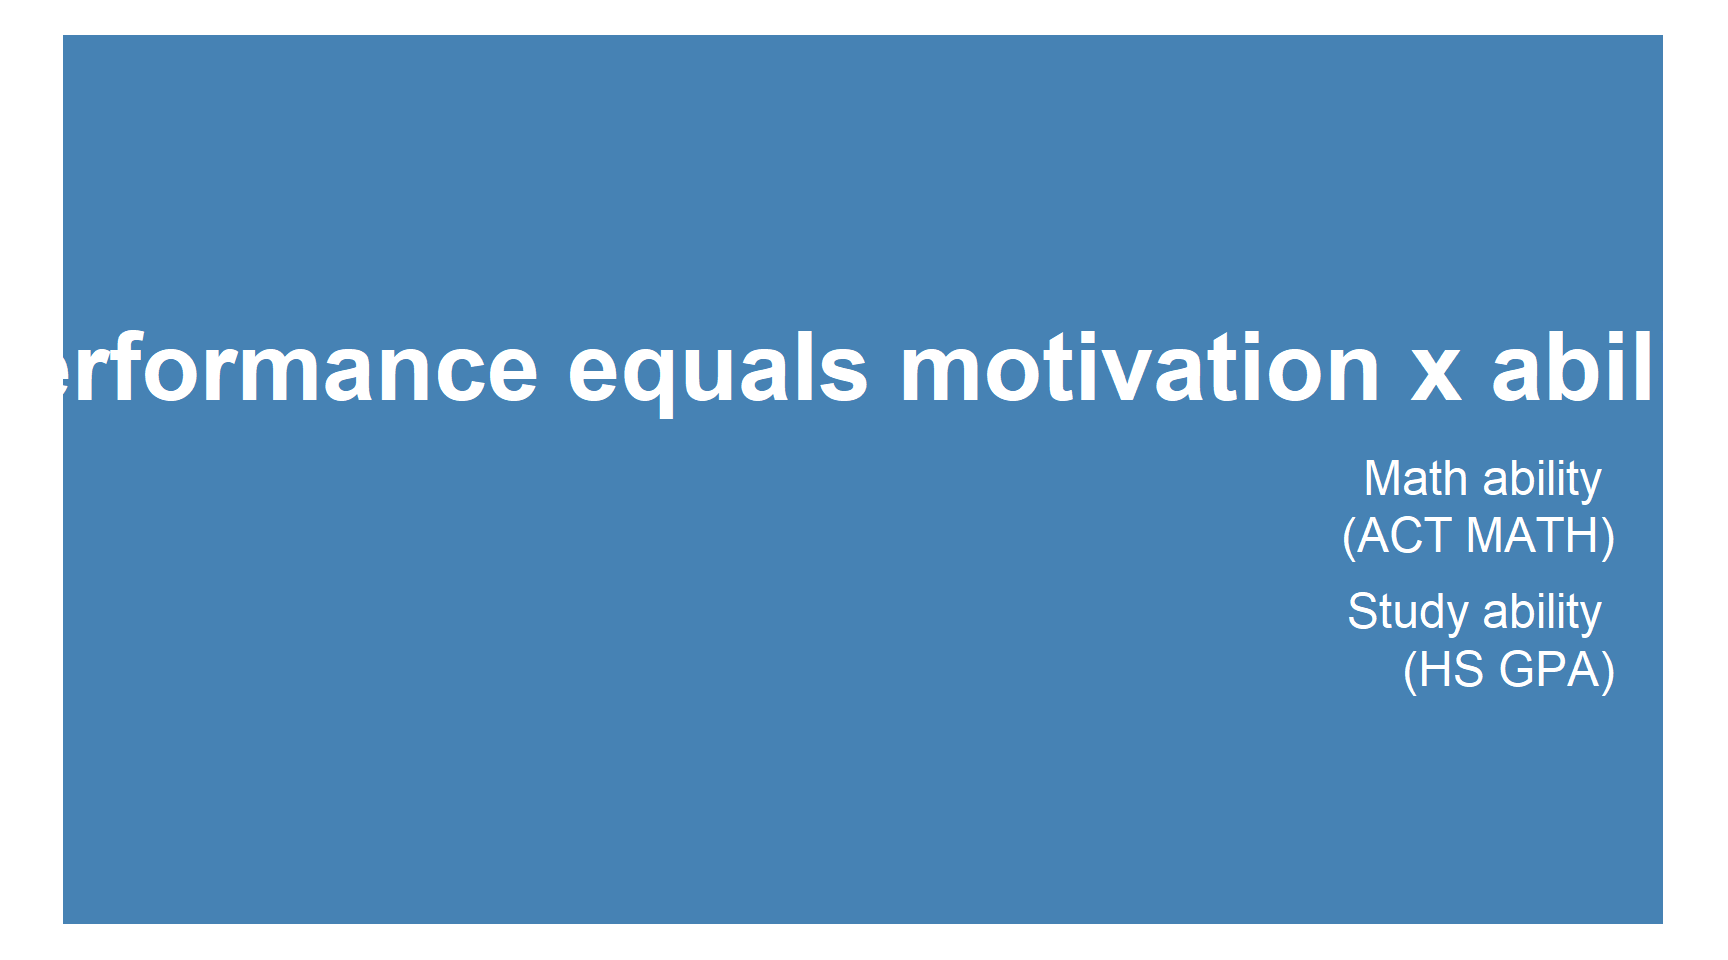
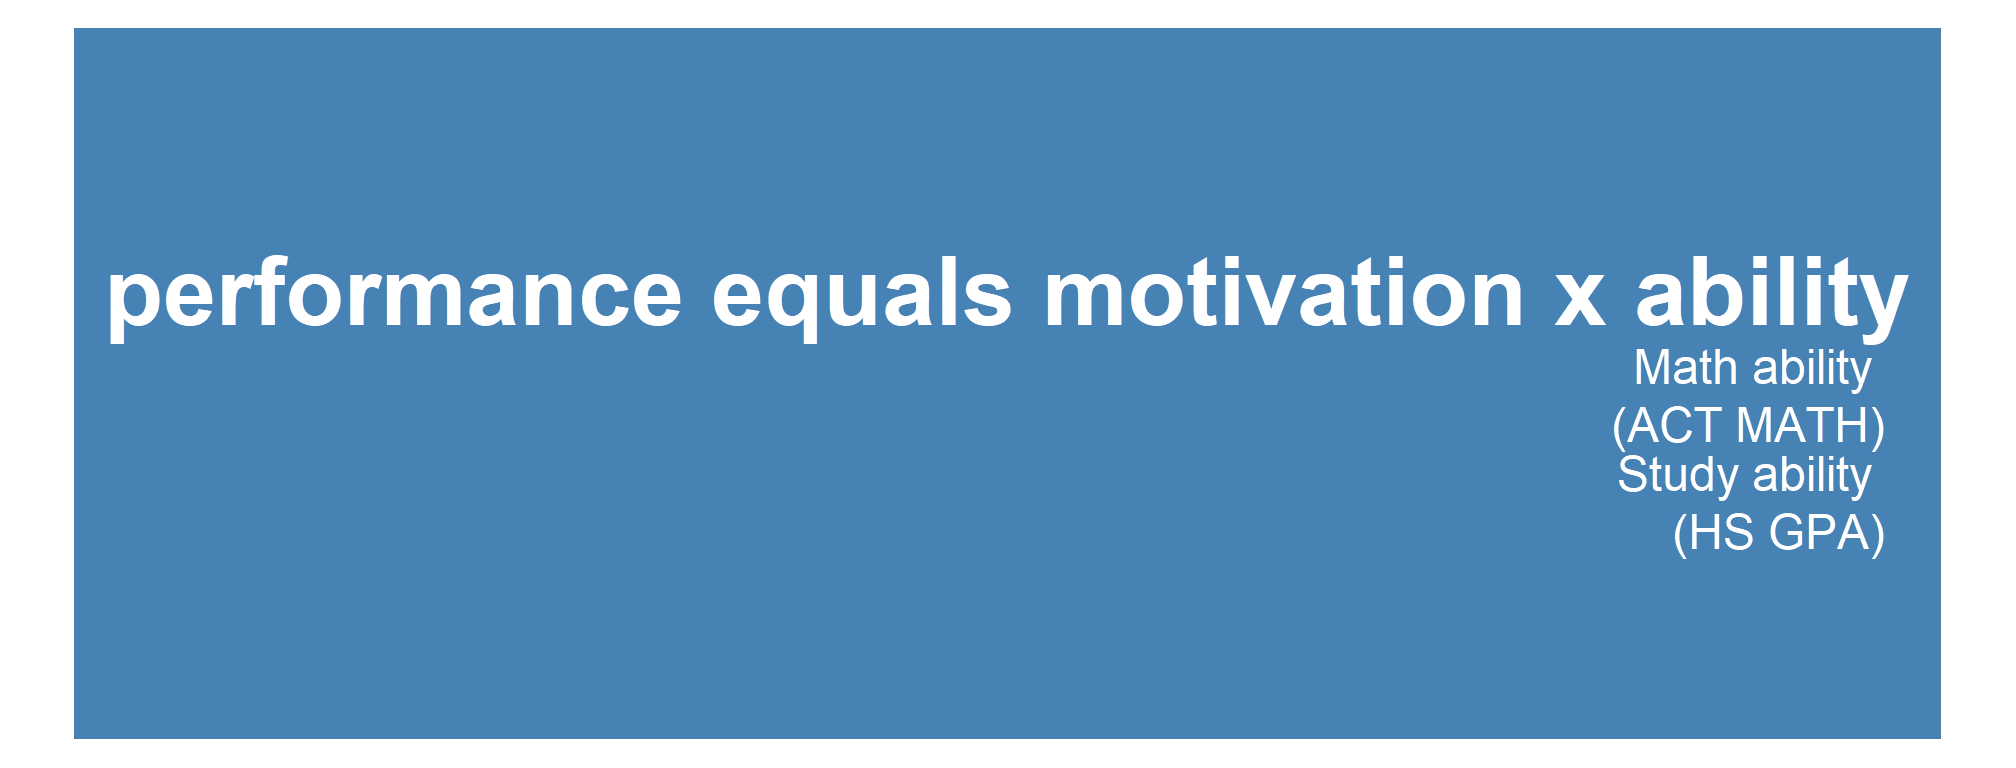
Final HTML Version; now working on docx-friendly adjustments.

Changed region(s): [[0.0312, 0.3125, 0.9688, 0.7188]]

diff --git a/Reports and Analyses/Evaluate Decision Trees/Deeper Dive into vH4 model (quarto).html b/Reports and Analyses/Evaluate Decision Trees/Deeper Dive into vH4 model (quarto).html
@@ -228,7 +228,7 @@ Figure&nbsp;4: The heatmap shows grade expectations increase with ACT Math and h
 Figure&nbsp;5: Selection of model optimum cut-off
 </figcaption>
 <div aria-describedby="fig-threshold-caption-0ceaefa1-69ba-4598-a22c-09a6ac19f8ca">
-<img src="Deeper-Dive-into-vH4-model--quarto-_files/figure-html/fig-threshold-1.png" class="img-fluid figure-img" width="1152">
+<img src="Deeper-Dive-into-vH4-model--quarto-_files/figure-html/fig-threshold-1.png" class="img-fluid figure-img" width="768">
 </div>
 </figure>
 </div>
@@ -367,7 +367,7 @@ Figure&nbsp;10: Variable importance to the model
 Figure&nbsp;11: Theory of performance
 </figcaption>
 <div aria-describedby="fig-performance-caption-0ceaefa1-69ba-4598-a22c-09a6ac19f8ca">
-<img src="Deeper-Dive-into-vH4-model--quarto-_files/figure-html/fig-performance-1.png" class="img-fluid figure-img" width="864">
+<img src="Deeper-Dive-into-vH4-model--quarto-_files/figure-html/fig-performance-1.png" class="img-fluid figure-img" width="1008">
 </div>
 </figure>
 </div>
